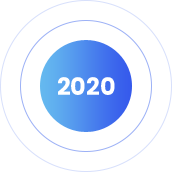
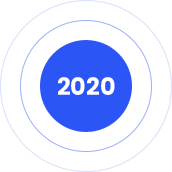
Clean blue color

Changed region(s): [[0.2326, 0.2326, 0.6395, 0.7849]]

diff --git a/assets/css/wrioos.css b/assets/css/wrioos.css
@@ -2,10 +2,14 @@
     background: url(../images/header-bottom.png) bottom center no-repeat, url(../images/bg.jpg) no-repeat, #08091b;
     background-size:100%,auto,auto,auto}
 .btn.btn-outline:after{background-color:#121536}
+.btn,.btn:before,.navbar .navbar-nav > li > a.nav-link.btn:before,.navbar .navbar-nav > li > a.nav-link.btn:after{border-radius:5px}
+.btn,.btn:before,.play-btn .play{background-image:none;background-color:#2b56f5}
+.skill-bar-percent{background-image:none;background-color:#2b56f5}
 .header-txt h1{margin-top:32px}
 h2.lead{font-size:1.5rem!important;font-weight:bold}
 p.lead{padding:0 0 30px}
 h5.blog-title{font-size:1.25em;text-transform:uppercase}
+.single-chart .sub-heading{padding-bottom:40px}
 .why .blog-texts{padding:20px 0 40px}
 .blog-texts p{color:#a2b4d2}
 .team-circle .team-title{font-size:1em}

diff --git a/index.html b/index.html
@@ -285,7 +285,7 @@
 					<div class="countdown-box text-center animated" data-animate="fadeInUp" data-delay=".3">
 						<!--<div class="token-countdown d-flex align-content-stretch" data-date="2018/09/05"></div>-->
 						<h1 class="text-center">COMING</h1>
-						<a href="https://docs.google.com/forms/d/e/1FAIpQLSfe5bYJYayC_ZwmWgHjea-gij5-2MohY5TaOwHT4QhVU_iVnQ/viewform" class="btn btn-alt btn-sm">Crowdsale Registration</a>
+						<a href="https://docs.google.com/forms/d/e/1FAIpQLSfe5bYJYayC_ZwmWgHjea-gij5-2MohY5TaOwHT4QhVU_iVnQ/viewform" class="btn btn-sm">Crowdsale Registration</a>
 					</div>
 				</div><!-- .col  -->
 			</div><!-- .row  -->
